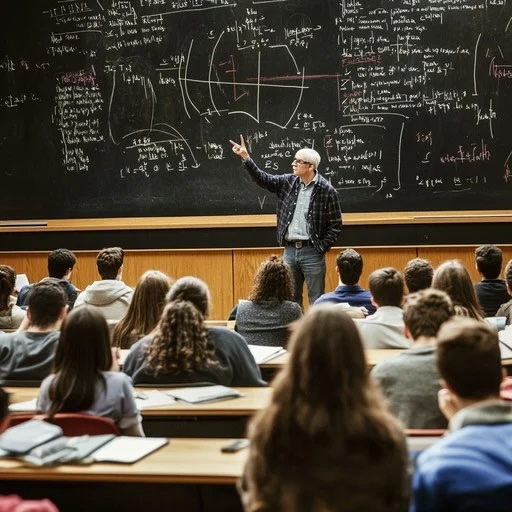
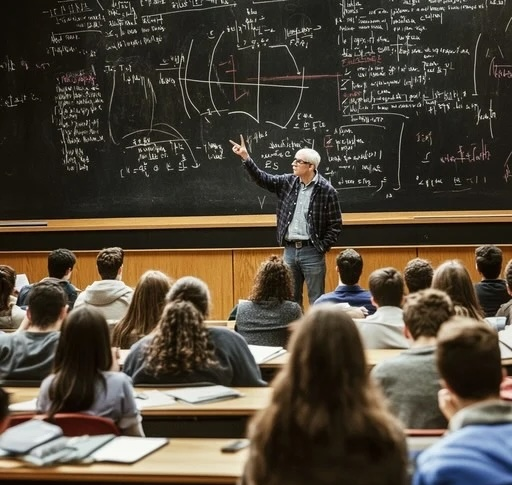
350px and 450px

diff --git a/docs/portfolio/most-impactful-training.md b/docs/portfolio/most-impactful-training.md
@@ -5,9 +5,9 @@
 
 #### Talk Group (Shanghai) – <mark> Created and led activities that thrilled 12,000+ ESL learners all over China </mark>
 
-| <div style={{ width: '350px' }}>Problem</div> | <div style={{ width: '400px' }}>Approach and results</div> |
+| <div style={{ width: '350px' }}>Problem</div> | <div style={{ width: '450px' }}>Approach and results</div> |
 |---------|-----------------------|
-| PROBLEM: <br/> - Create a new style of English-learning. <br/> - ESL in China is a very saturated market. <br/> - Tailor classes to the local people. <br/> - Find venues/topics interesting to locals. <br/> - Find class times in their busy schedules. | MY SOLUTION: <br/> Designed a database for the various content I was creating: <br/> - The [3 Talk da Talk textbooks](https://www.google.com/search?q=%E2%80%9D%E6%B4%8B%E8%85%94%E6%B4%8B%E8%B0%83%E2%80%9C%E4%B9%A6&tbm=isch&ved=2ahUKEwjMlNa0q_nvAhWLjZ4KHQ9fBzUQ2-cCegQIABAA&oq=%E2%80%9D%E6%B4%8B%E8%85%94%E6%B4%8B%E8%B0%83%E2%80%9C%E4%B9%A6&gs_lcp=CgNpbWcQA1C9YVjJbmC2c2gAcAB4AIABXIgB1QKSAQE0mAEAoAEBqgELZ3dzLXdpei1pbWfAAQE&sclient=img&ei=25F0YIy7Boub-gSPvp2oAw&bih=791&biw=1438&hl=en) I authored <br/> - The 1,000+ Phrase-of-the-Day text messages I wrote <br/> - Daily Mini-Adventures (2-hr class) <br/> - Weekend Adventures (5-hr activity) <br/> - Daily Phrase-of-the-day SMS texts <br/><br/> Managed 5 artists, 3 translators, 20 teachers, and 5 developers I managed <br/><br/> Taught classes to improve class materials. |
+| PROBLEM: <br/> - Create a new style of English-learning. <br/> - ESL in China is a very saturated market. <br/> - Tailor classes to the local people. <br/> - Find venues/topics interesting to locals. <br/> - Find class times in their busy schedules. | MY SOLUTION: <br/> Designed a database for the various content I was creating: <br/> - The [3 Talk da Talk textbooks](https://www.google.com/search?q=%E2%80%9D%E6%B4%8B%E8%85%94%E6%B4%8B%E8%B0%83%E2%80%9C%E4%B9%A6&tbm=isch&ved=2ahUKEwjMlNa0q_nvAhWLjZ4KHQ9fBzUQ2-cCegQIABAA&oq=%E2%80%9D%E6%B4%8B%E8%85%94%E6%B4%8B%E8%B0%83%E2%80%9C%E4%B9%A6&gs_lcp=CgNpbWcQA1C9YVjJbmC2c2gAcAB4AIABXIgB1QKSAQE0mAEAoAEBqgELZ3dzLXdpei1pbWfAAQE&sclient=img&ei=25F0YIy7Boub-gSPvp2oAw&bih=791&biw=1438&hl=en) I authored <br/> - The 1,000+ Phrase-of-the-Day text messages I wrote <br/> - Daily Mini-Adventures (2-hr class) <br/> - Weekend Adventures (5-hr activity) <br/> - Daily Phrase-of-the-day SMS texts <br/><br/> Managed 5 artists, 3 translators, 20 teachers, and 5 developers <br/><br/> Taught classes to improve class materials. |
 | _Traditional_ style of learning: <br/> - Takes place in the same classroom. <br/> - 1 Teacher per 30 - 50 learners. <br/> - Teacher writes on a board. <br/> - Teacher talks 90% of each 1-hour class. <br/> - Teacher talks from the front of the room. | _Experiential_ style of learning: <br/> - Takes place at various venues related to the lesson topic. <br/> - 3 Facilitators per 21 - 30 learners. <br/> - Learners pair up with other learners during activities. <br/> - Facilitators walk around to answer questions and explain concepts. <br/> - Facilitators start activities and then mostly listen, so learners can do most of the talking during the 2-hour classes. |
 | _Traditional_ teaching method <br/><br/> ![Before](../../static/img/TdT_BEFORE_professor-teaching-mathematics-stockcake.jpeg) | _Experiential_ teaching method <br/><br/> ![After](../../static/img/TalkGroup_Mini-Adventure-class.png) |
 | | RESULTS: <br/> - 12,000+ learners thrilled with their improved English. <br/> - An English school bought our English club in 2006. |
